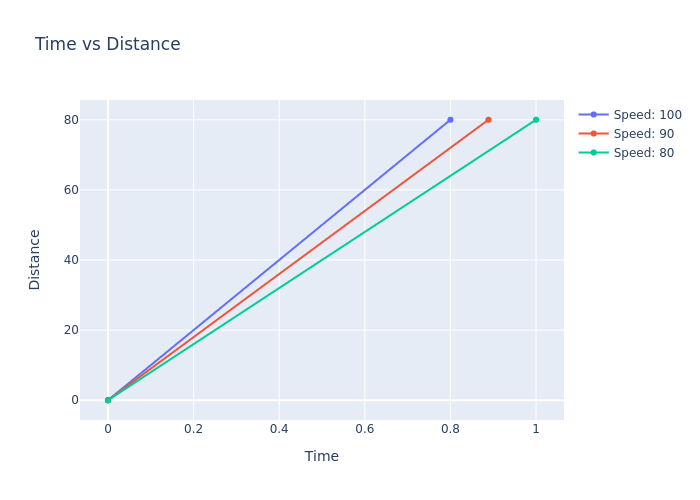
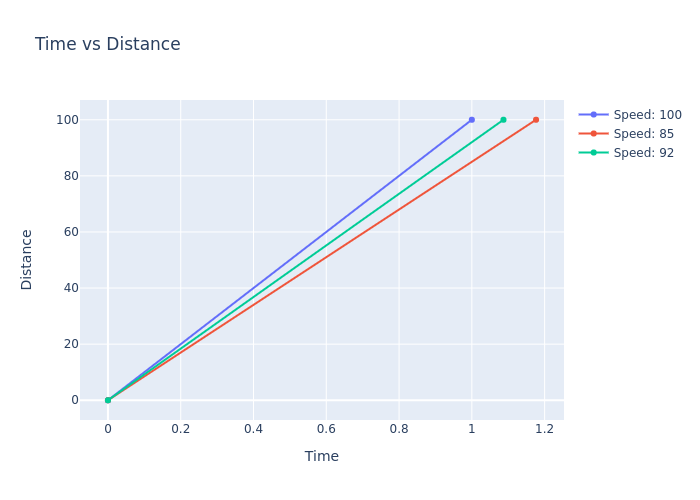
add comments

diff --git a/a2/q2/q2.py b/a2/q2/q2.py
@@ -1,51 +1,62 @@
+# import necessary libraries
 import plotly
 import plotly.graph_objs as go
 import plotly.io as pio
 import numpy as np
 import pandas as pd
 
+# define function to calculate time given time and distance
 def calculate_time(speed, distance):
+  # test and catch errors
   try:
+    # convert parameter values to float
     s = float(speed)
     d = float(distance)
 
-    time = d/s
+    time = d/s # calculate time
     print(f'Time: {time}')
-    return time
+    return time # return value of time
 
+  # if valueError is returned, print message
   except ValueError:
     print("invalid Number")
 
-
+# main function
 def main():
-  speed = []
-  distance = []
+  # initialize variables to store array of values
+  speed = [100, 85, 92]
+  distance = [100, 100, 100]
   time = []
 
-  for i in range(3):
-    speed_in = input("Enter speed: ")
-    distance_in = input("Enter distance: ")
+  # loop 3 times
+  for i in range(len(speed)):
+    # check that same number of values are in both arrays
+    if (len(speed) != len(distance)):
+      print("Speed and Distance arrays need to be the same length")
+      return -1 # end program if lengths are not equal
+
+    # convert values to integer and calculate time
     try:
-      s = int(speed_in)
-      d = int(distance_in)
-
-      speed.append(s)
-      distance.append(d)
-
-      time.append(calculate_time(s, d))
+      s = int(speed[i])
+      d = int(distance[i])
+      time.append(calculate_time(s, d)) # append to time array
 
     except ValueError:
       print("An invalid number was entered.")
   
+  # create figure
   fig = go.Figure()
   
+  # plot the values in the time and distance arrays
   for i in range(len(time)):
     x1 = [0, time[i]]
     y1 = [0, distance[i]]
 
+    # convert arrays to numpy arrays used for plotting
     arr1 = np.array(x1)
     arr2 = np.array(y1)
 
+    # add line to graph
     fig.add_trace(go.Scatter(
       x = arr1,
       y = arr2,
@@ -54,13 +65,14 @@ def main():
       name = f'Speed: {speed[i]}'
     ))
 
-
+  # update layout to add title and axis labels
   fig.update_layout(
     title = "Time vs Distance",
     xaxis_title = "Time",
     yaxis_title = "Distance"
   )
 
+  # write graph to file
   pio.write_image(fig, 'q2.png')
 
 if __name__ == '__main__':
